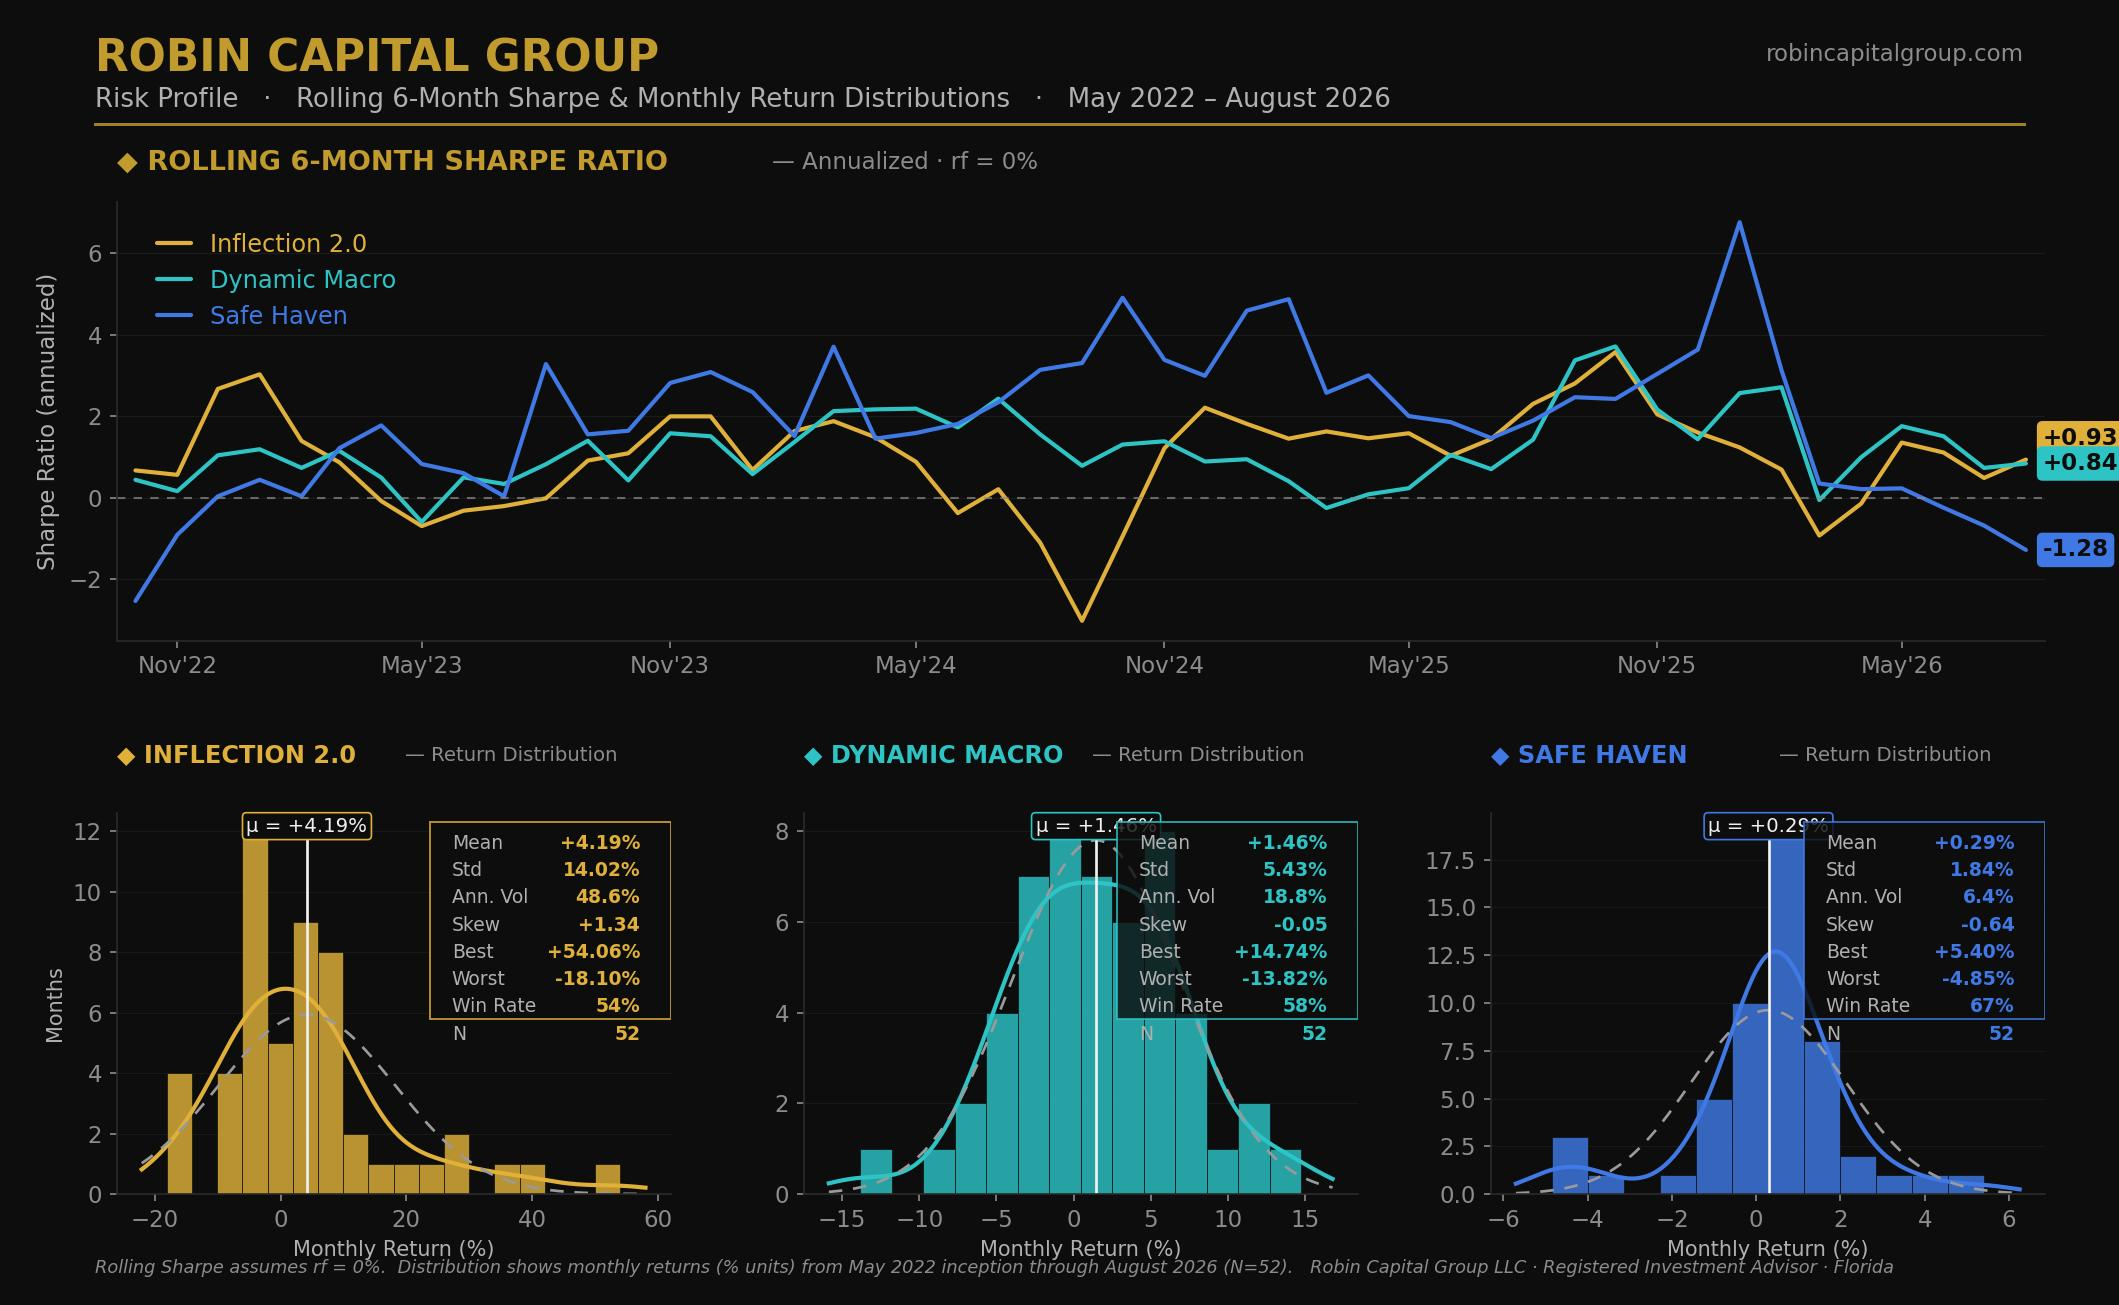
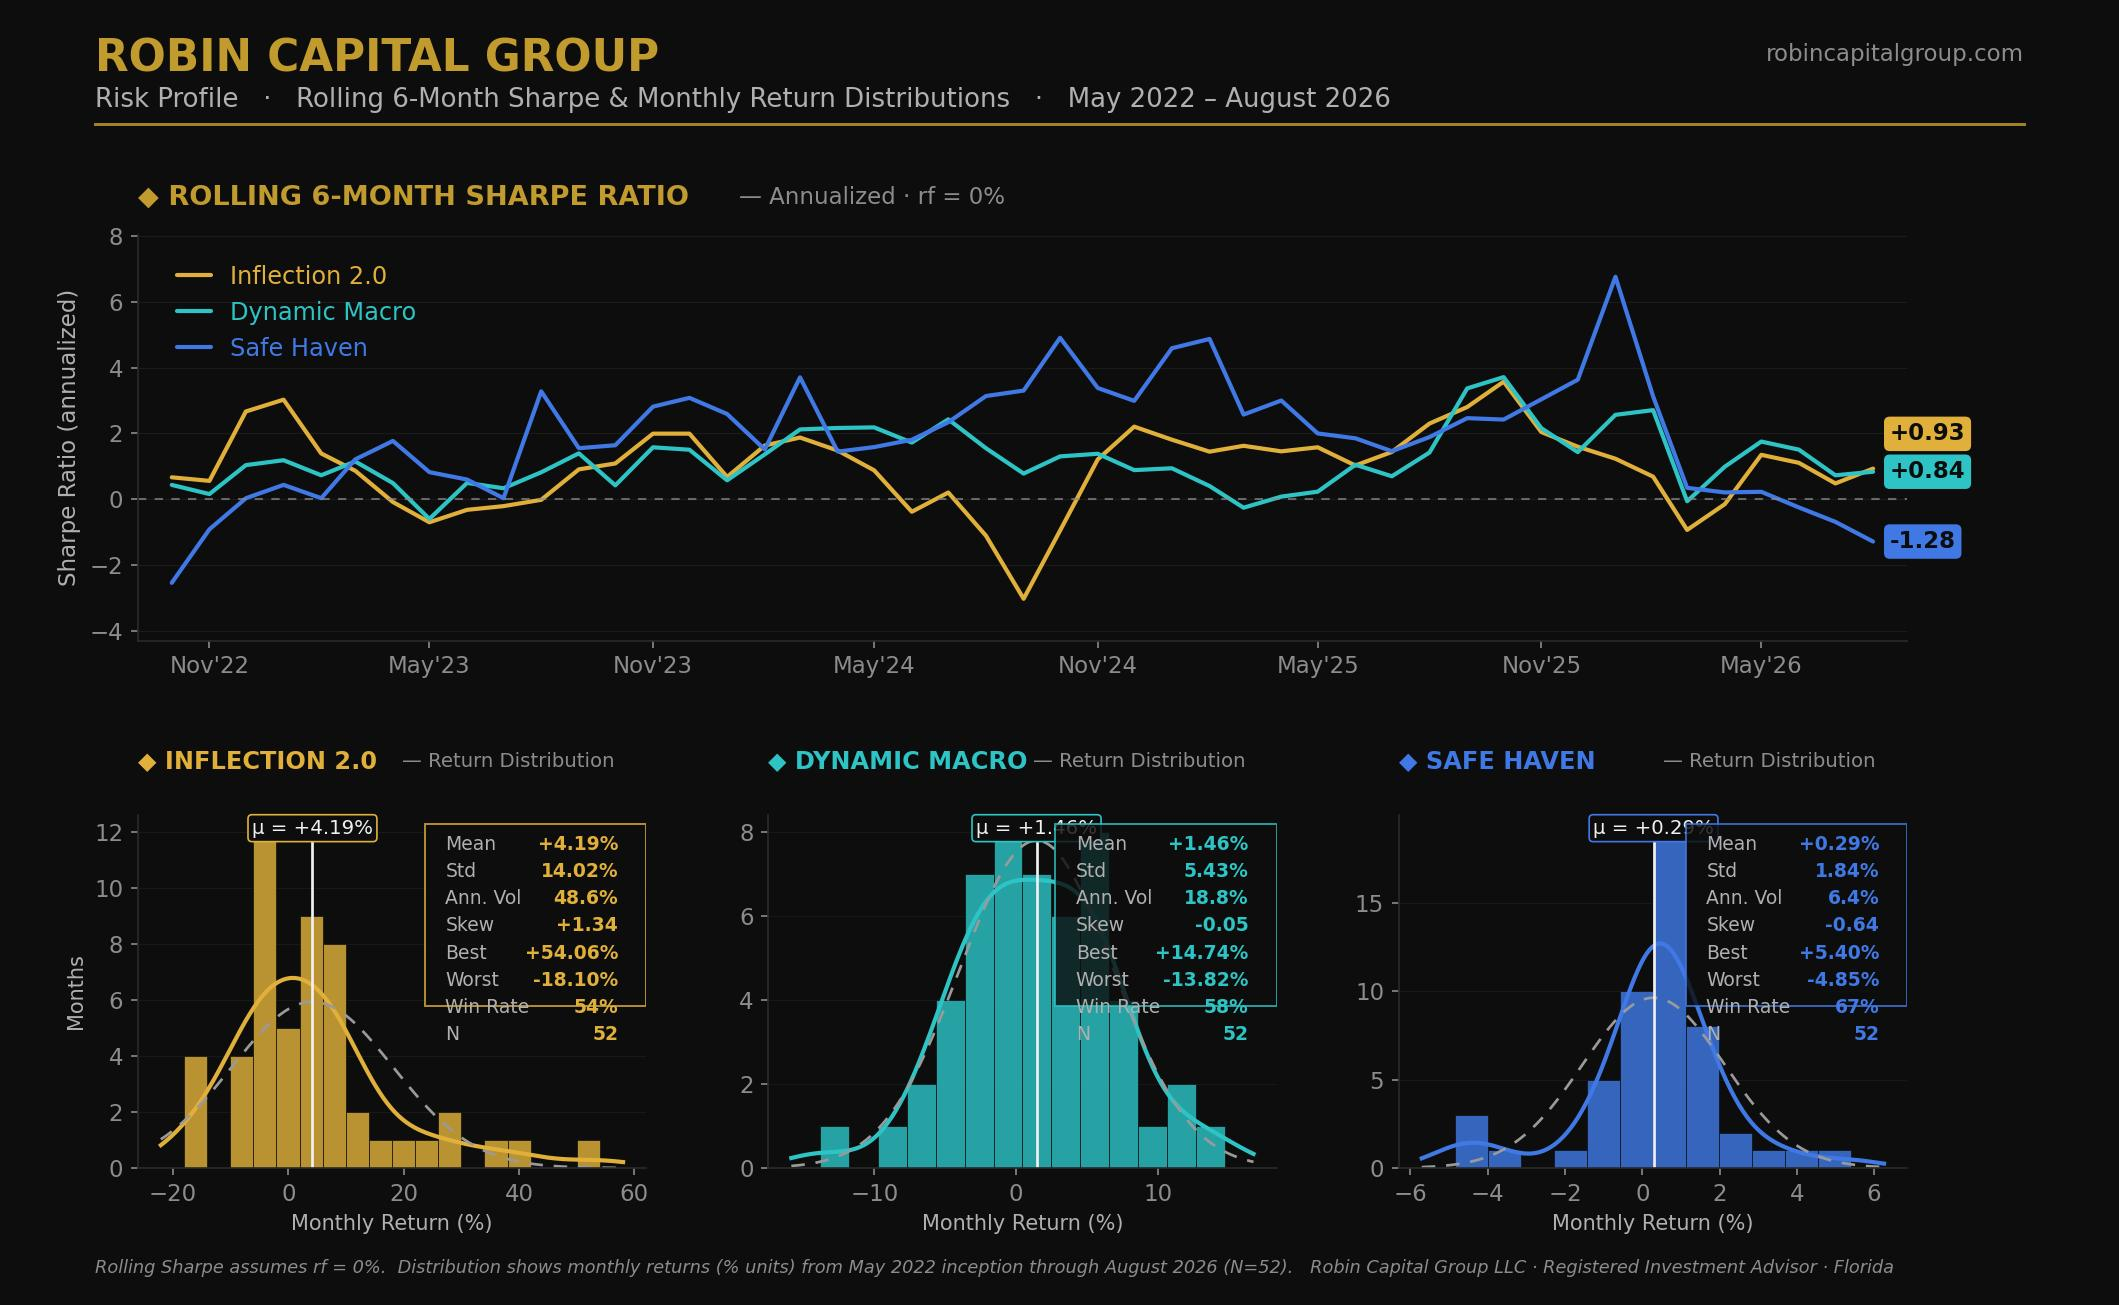
Add files via upload

diff --git a/index.html b/index.html
@@ -1009,7 +1009,7 @@
       max-width: var(--max-w);
       margin: 48px auto 0;
       display: grid;
-      grid-template-columns: repeat(5, 1fr);
+      grid-template-columns: repeat(6, 1fr);
       gap: 0;
       position: relative;
     }
@@ -1025,7 +1025,7 @@
     }
 
     .timeline-item {
-      padding: 0 16px;
+      padding: 0 11px;
       text-align: center;
     }
 
